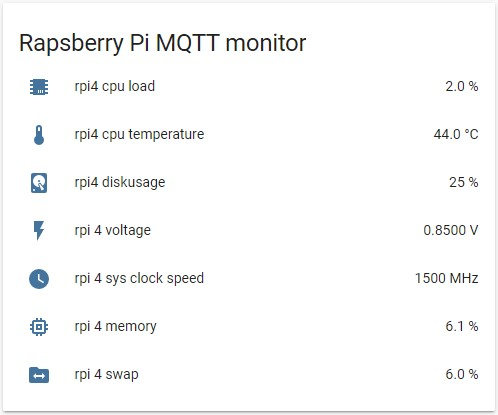
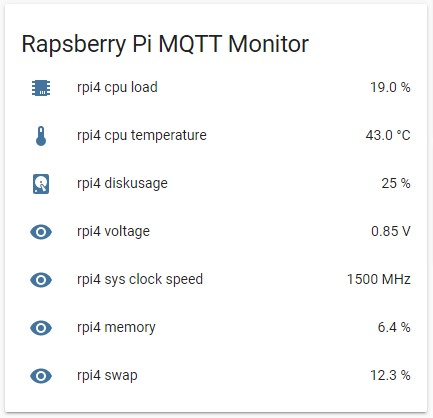
group mesage with csv

diff --git a/src/rpi-cpu2mqtt.py b/src/rpi-cpu2mqtt.py
@@ -89,23 +89,18 @@ def publish_to_mqtt (cpu_load = 0, cpu_temp = 0, used_space = 0, voltage = 0, sy
 		client.disconnect()
 
 def bulk_publish_to_mqtt (cpu_load = 0, cpu_temp = 0, used_space = 0, voltage = 0, sys_clock_speed = 0, swap = 0, memory = 0):
-		# compose the json message containing the measured values
-		values = {}
-		values['cpu_load'] = str(cpu_load)
-		values['cpu_temp'] = str(cpu_temp)
-		values['used_space'] = str(used_space)
-		values['voltage'] = str(voltage)
-		values['sys_clock_speed'] = str(sys_clock_speed)
-		values['swap'] = str(swap)
-		values['memory'] = str(memory)
-		print(values)
+		# compose the CSV message containing the measured values
+		
+		values = cpu_load, float(cpu_temp), used_space, float(voltage), int(sys_clock_speed), swap, memory
+		values = str(values)[1:-1]
+
 		# connect to mqtt server
 		client = paho.Client()
 		client.username_pw_set(config.mqtt_user, config.mqtt_password)
 		client.connect(config.mqtt_host, config.mqtt_port)
 		
 		# publish monitored values to MQTT
-		client.publish(config.mqtt_topic_prefix+"/"+hostname, str(values), qos=1)
+		client.publish(config.mqtt_topic_prefix+"/"+hostname, values, qos=1)
 		
 		# disconect from mqtt server
 		client.disconnect()

diff --git a/README.md b/README.md
@@ -48,8 +48,8 @@ swap = False
 memory = False
 ```
 
-If the ```group_messages``` is set to true the script will send just one message containing all values (I still haven't made the sensor configuration for this - the one below is for separate messages only)
-The group message is in json and looks like this:
+If the ```group_messages``` is set to true the script will send just one message containing all values in CSV format.
+The group message looks like this:
 ```
 {'used_space': '25', 'sys_clock_speed': '1500', 'cpu_temp': '43.0', 'voltage': '0.8500', 'cpu_load': '1.25', 'memory': 'False', 'swap': 'False'}
 ```
@@ -70,48 +70,95 @@ Create a cron entry like this (you might need to update the path in the cron ent
 
 Once you installed the script on your raspberry you need to create some sensors in home assistant.
 
-This is the sensors configuration assuming your sensors are separated in ```sensors.yaml``` file.
+
+
+This is the sensors configuration if ```group_messages = True``` assuming your sensors are separated in ```sensors.yaml``` file.
+```yaml
+  - platform: mqtt
+    name: 'rpi4 cpu load'
+    state_topic: 'masoko/rpi4'
+    value_template: '{{ value.split(",")[0] }}'
+    unit_of_measurement: "%"
+
+  - platform: mqtt
+    state_topic: 'masoko/rpi4'
+    value_template: '{{ value.split(",")[1] }}'
+    name: rpi4 cpu temp
+    unit_of_measurement: "°C"
+
+  - platform: mqtt
+    state_topic: 'masoko/rpi4'
+    value_template: '{{ value.split(",")[2] }}'
+    name: rpi4 diskusage
+    unit_of_measurement: "%"
+
+  - platform: mqtt
+    state_topic: 'masoko/rpi4'
+    value_template: '{{ value.split(",")[3] }}'
+    name: rpi4 voltage
+    unit_of_measurement: "V"
+
+  - platform: mqtt
+    state_topic: 'masoko/rpi4'
+    value_template: '{{ value.split(",")[4] }}'
+    name: rpi4 sys clock speed
+    unit_of_measurement: "MHz"
+
+  - platform: mqtt
+    state_topic: 'masoko/rpi4'
+    value_template: '{{ value.split(",")[5] }}'
+    name: rpi4 swap
+    unit_of_measurement: "%" 
+
+  - platform: mqtt
+    state_topic: 'masoko/rpi4'
+    value_template: '{{ value.split(",")[6] }}'
+    name: rpi4 memory
+    unit_of_measurement: "%" 
+```
+
+This is the sensors configuration if ```group_messages = False``` assuming your sensors are separated in ```sensors.yaml``` file.
 ```yaml
   - platform: mqtt
     state_topic: "masoko/rpi4/cpuload"
-    name: rpi 4 cpu load
+    name: rpi4 cpu load
     unit_of_measurement: "%"
 
   - platform: mqtt
     state_topic: "masoko/rpi4/cputemp"
-    name: rpi 4 cpu temp
+    name: rpi4 cpu temp
     unit_of_measurement: "°C"
 
   - platform: mqtt
     state_topic: "masoko/rpi4/diskusage"
-    name: rpi 4 diskusage
+    name: rpi4 diskusage
     unit_of_measurement: "%"
 
   - platform: mqtt
     state_topic: "masoko/rpi4/voltage"
-    name: rpi 4 voltage
+    name: rpi4 voltage
     unit_of_measurement: "V"
 
   - platform: mqtt
     state_topic: "masoko/rpi4/sys_clock_speed"
-    name: rpi 4 sys clock speed
+    name: rpi4 sys clock speed
     unit_of_measurement: "hz"
 
   - platform: mqtt
     state_topic: "masoko/rpi4/swap"
-    name: rpi 4 swap
+    name: rpi4 swap
     unit_of_measurement: "%" 
 
   - platform: mqtt
     state_topic: "masoko/rpi4/memory"
-    name: rpi 4 memory
+    name: rpi4 memory
     unit_of_measurement: "%"
 ```
 
 Add this to your ```customize.yaml``` file to change the icons of the sensors.
 
 ```yaml
-sensor.rpi_4_voltage:
+sensor.rpi4_voltage:
   friendly_name: rpi 4 voltage
   icon: mdi:flash
 sensor.rpi4_cpu_load:
@@ -120,13 +167,13 @@ sensor.rpi4_cpu_load:
 sensor.rpi4_diskusage:
   friendly_name: rpi4 diskusage
   icon: mdi:harddisk
-sensor.rpi_4_sys_clock_speed:
+sensor.rpi4_sys_clock_speed:
   icon: mdi:clock
 sensor.rpi4_cpu_temp:
   friendly_name: rpi4 cpu temperature
-sensor.rpi_4_swap:
+sensor.rpi4_swap:
   icon: mdi:folder-swap
-sensor.rpi_4_memory:
+sensor.rpi4_memory:
   icon: mdi:memory
 ```
 
@@ -140,11 +187,11 @@ entities:
   - entity: sensor.rpi4_cpu_load
   - entity: sensor.rpi4_cpu_temp
   - entity: sensor.rpi4_diskusage
-  - entity: sensor.rpi_4_voltage
-  - entity: sensor.rpi_4_sys_clock_speed
-  - entity: sensor.rpi_4_swap
-  - entity: sensor.rpi_4_memory
+  - entity: sensor.rpi4_voltage
+  - entity: sensor.rpi4_sys_clock_speed
+  - entity: sensor.rpi4_swap
+  - entity: sensor.rpi4_memory
 ```
 # To Do
-- make an option to send all values as one message
+
 - maybe add network trafic monitoring via some third party software (for now I can't find a way to do it without additinal software)
